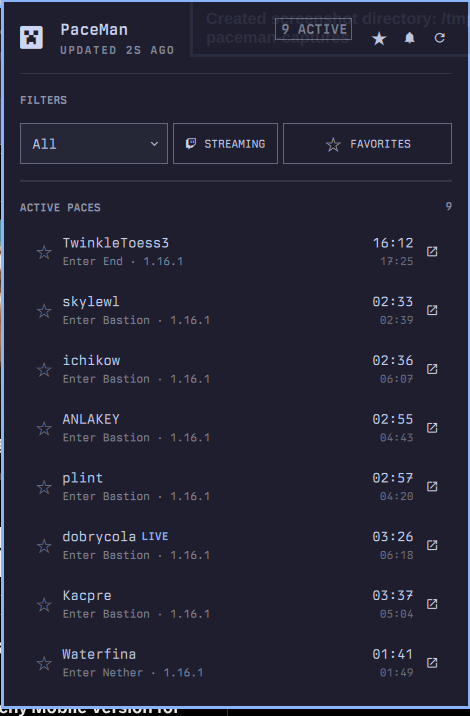
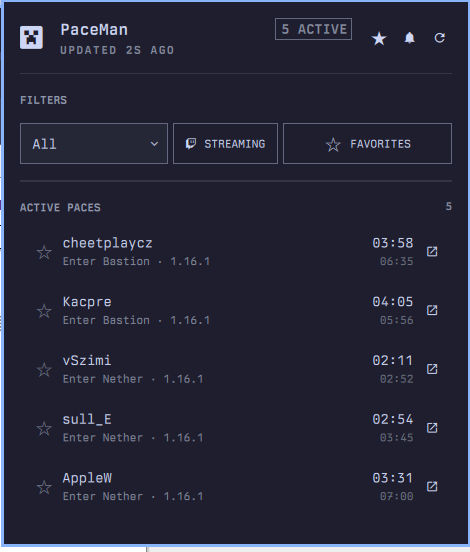
Replace plugin screenshots with live captures

diff --git a/README.md b/README.md
@@ -4,8 +4,8 @@
 [![Version](https://img.shields.io/badge/version-0.2.3-9ece6a)](manifest.json)
 [![License](https://img.shields.io/badge/license-MIT-c0caf5)](LICENSE)
 
-Follow live Minecraft RSG speedrunning paces from
-[PaceMan.gg](https://paceman.gg/) directly from the Omarchy bar.
+Follow live Minecraft speedrunning (MCSR) Random Seed Glitchless (RSG) paces
+from [PaceMan.gg](https://paceman.gg/) directly from the Omarchy bar.
 
 ![PaceMan live pace board](preview.png)
 
@@ -16,7 +16,7 @@ spacing, typography, controls, and panel behavior.
 
 ## Features
 
-- Live standard RSG paces from PaceMan's public liveruns feed
+- Live MCSR standard RSG paces from PaceMan's public liveruns feed
 - Minecraft version, Twitch streaming, and favorite-runner filters
 - PaceMan high-quality markers without hard-coded badge colors
 - Expandable completed-split history for every active run
@@ -111,7 +111,9 @@ case-insensitively and pinned above the remaining pace board.
 ## Data and privacy
 
 The plugin polls PaceMan's public standard RSG liveruns endpoint every 15
-seconds by default. It does not request or store Minecraft credentials,
+seconds by default. In this context, **MCSR** is the broader Minecraft
+speedrunning ecosystem, while **RSG** is the specific run category exposed by
+this feed. The plugin does not request or store Minecraft credentials,
 Microsoft authentication, PaceMan tracker access keys, or Twitch tokens.
 
 Configuration is stored by Omarchy in the widget entry inside
